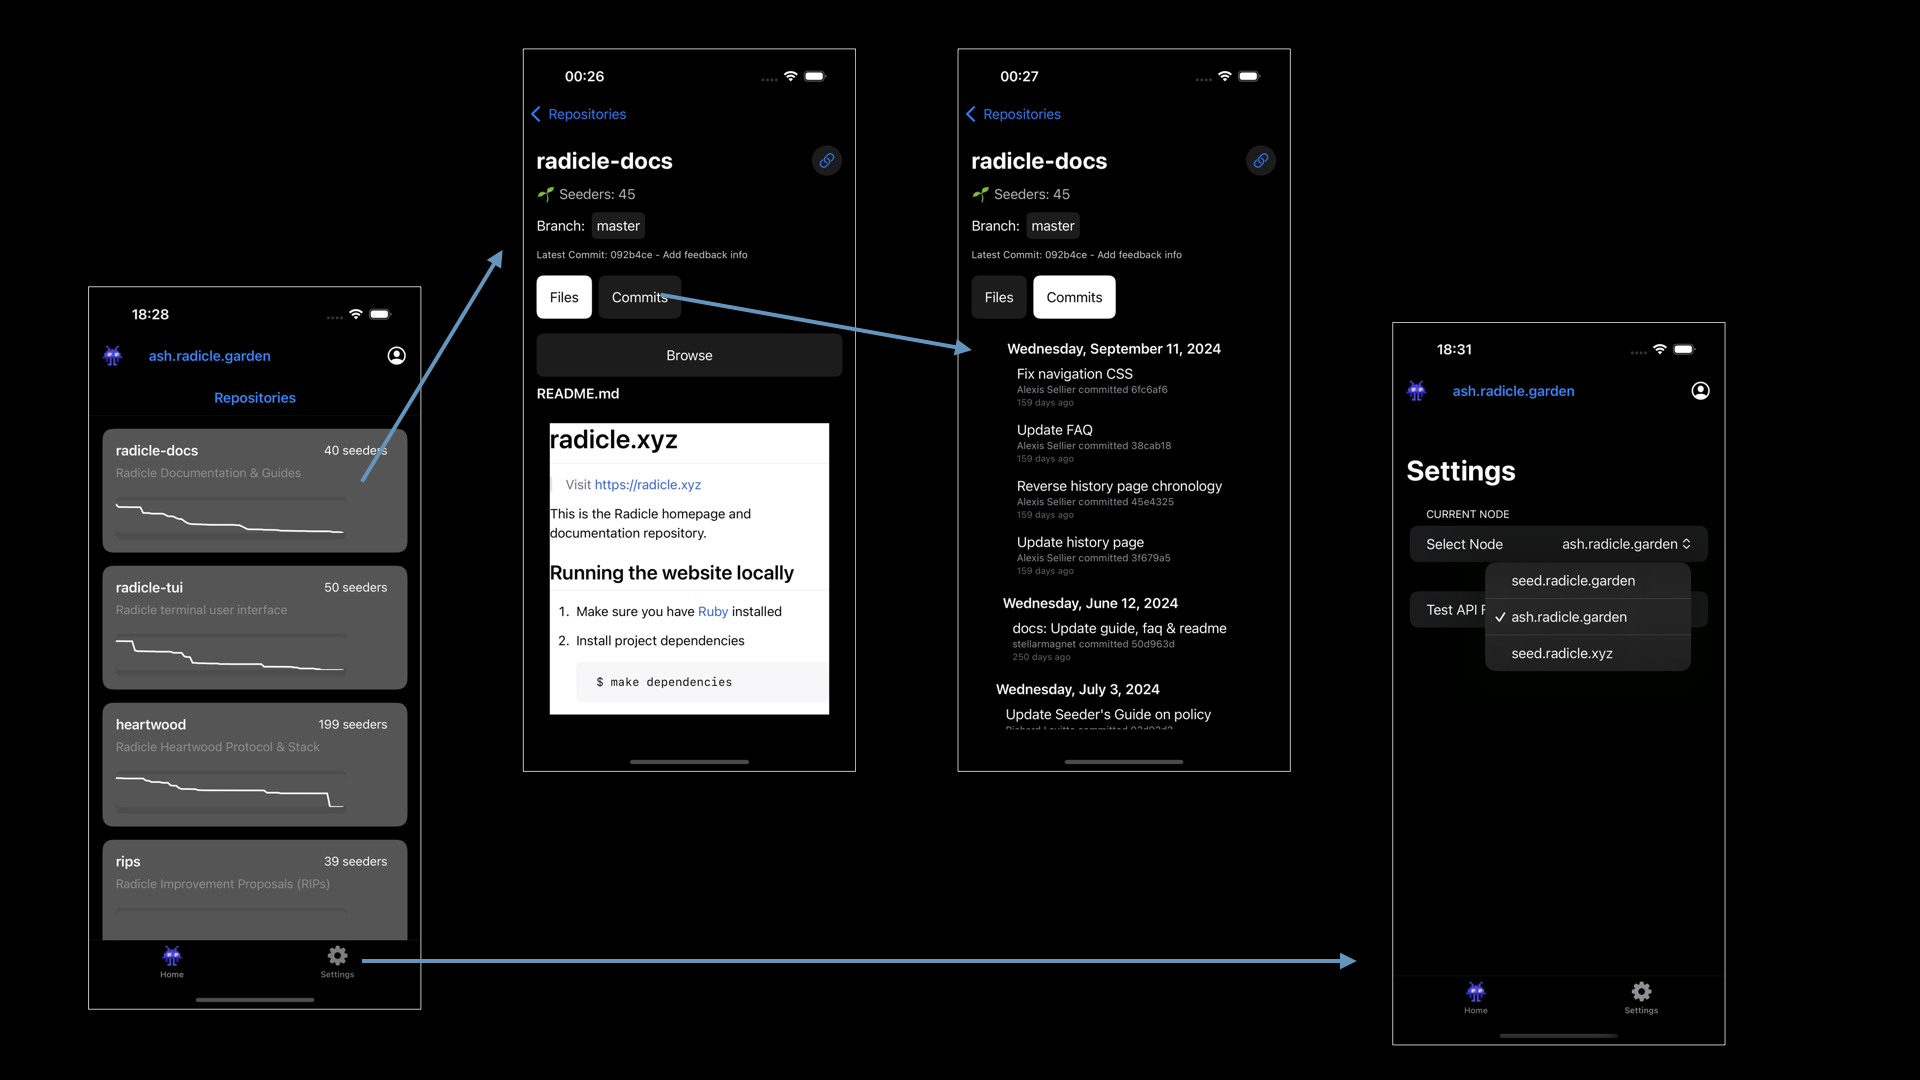
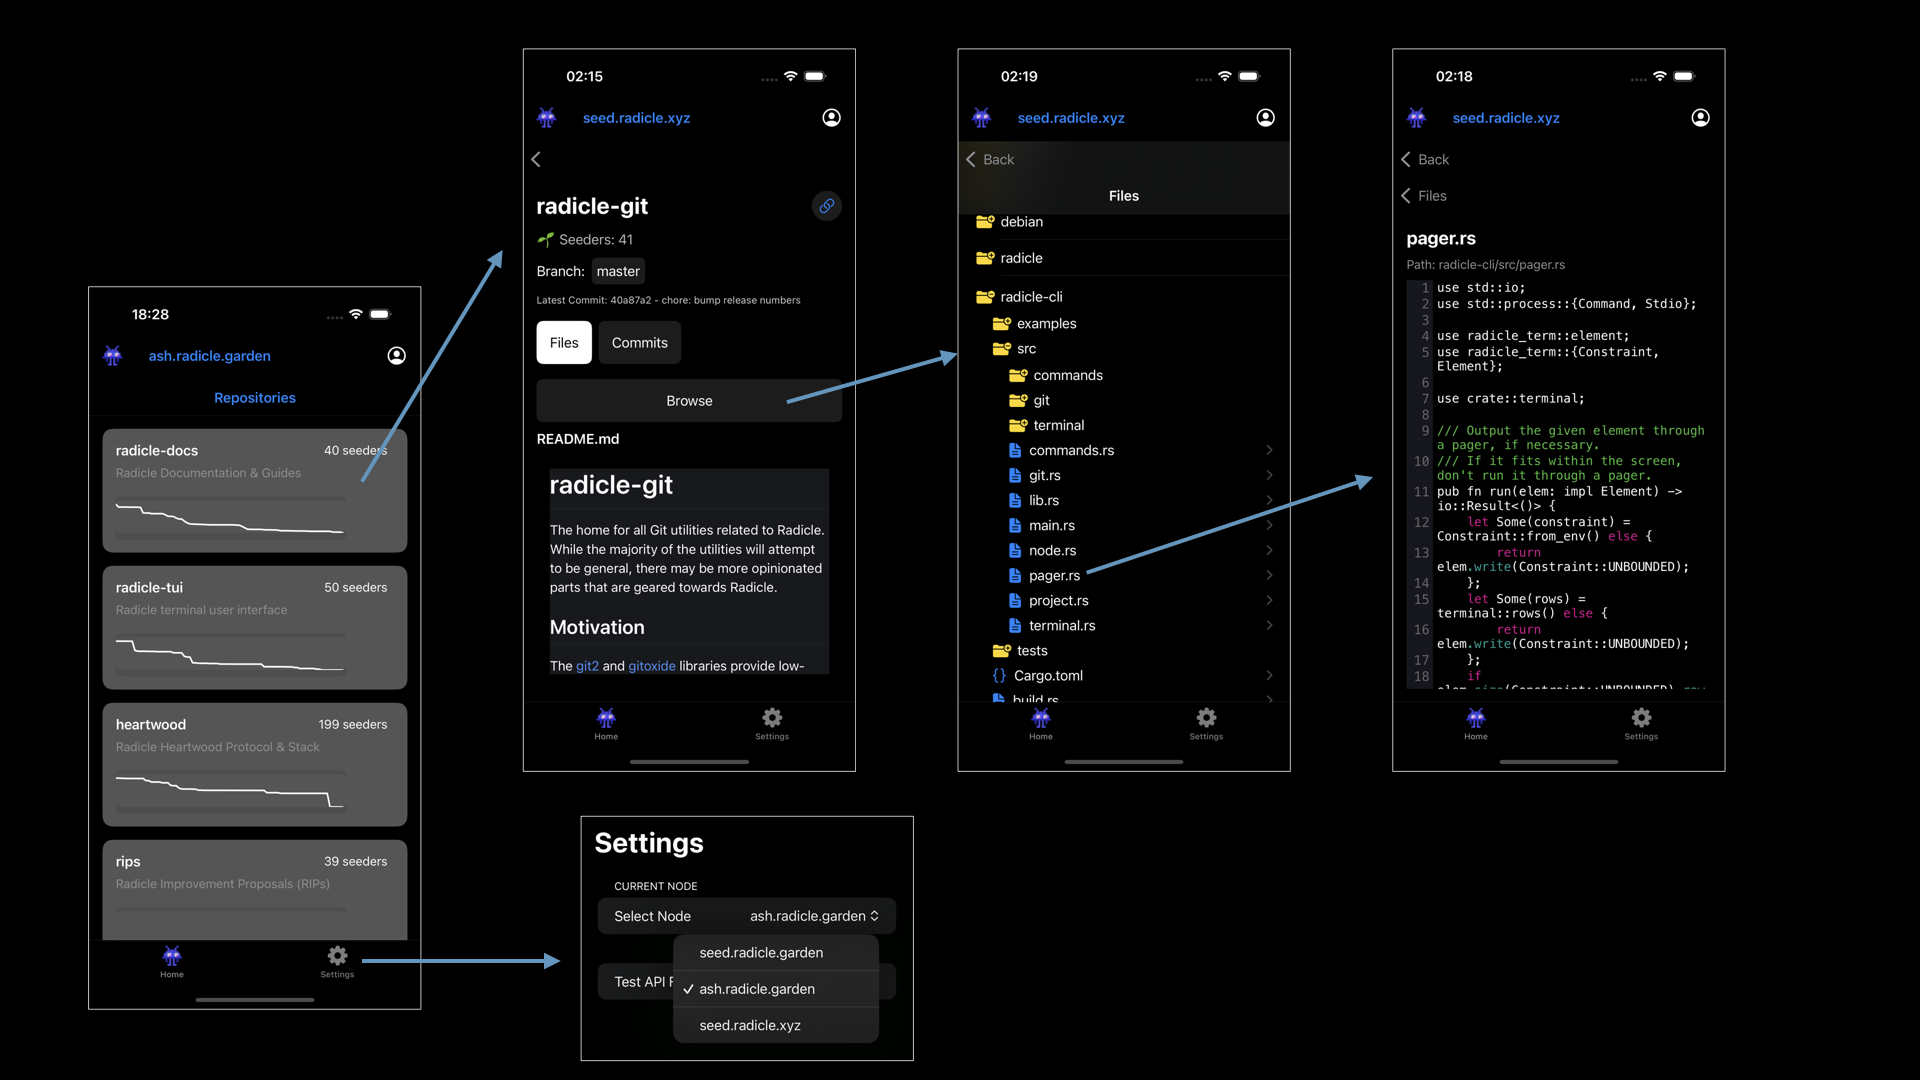
working: syntax highlighting

diff --git a/RadicleApp/Views/Files/FileCodeView.swift b/RadicleApp/Views/Files/FileCodeView.swift
@@ -1,0 +1,75 @@
+//
+//  FileCodeView.swift
+//  RadicleApp
+//
+//  Created by bordumb on 25/02/2025.
+//
+
+import SwiftUI
+import Sourceful
+
+struct FileCodeView: UIViewRepresentable {
+    let code: String
+    let language: Language
+
+    func makeUIView(context: Context) -> SyntaxTextView {
+        let textView = SyntaxTextView()
+        textView.theme = DefaultSourceCodeTheme()
+        textView.contentTextView.textColor = .white
+        textView.contentTextView.backgroundColor = .black
+        textView.contentTextView.isEditable = false
+        textView.delegate = context.coordinator
+        textView.text = code
+        return textView
+    }
+
+    func updateUIView(_ uiView: SyntaxTextView, context: Context) {
+        uiView.text = code
+    }
+
+    func makeCoordinator() -> Coordinator {
+        Coordinator(self, language: language)
+    }
+    
+    class BasicLexer: Lexer {
+        func getSavannaTokens(input: String) -> [Token] {
+            return []
+        }
+    }
+
+    class Coordinator: NSObject, SyntaxTextViewDelegate {
+        var parent: FileCodeView
+        var lexer: Lexer
+
+        init(_ parent: FileCodeView, language: Language) {
+            self.parent = parent
+            switch language {
+            case .swift:
+                self.lexer = SwiftLexer() // ✅ Native Swift support
+            default:
+                self.lexer = BasicLexer() // ✅ Placeholder for Python & JavaScript
+            }
+        }
+
+        // ✅ Required by SyntaxTextViewDelegate
+        func didChangeText(_ syntaxTextView: SyntaxTextView) {
+            // No-op for read-only display
+        }
+
+        func didChangeSelectedRange(_ syntaxTextView: SyntaxTextView, selectedRange: NSRange) {
+            // No-op for read-only display
+        }
+
+        func lexerForSource(_ source: String) -> Lexer {
+            return lexer
+        }
+    }
+}
+
+// Enum for supported languages
+enum Language {
+    case swift
+    case python
+    case javascript
+}
+

diff --git a/RadicleApp/Views/Files/FileView.swift b/RadicleApp/Views/Files/FileView.swift
@@ -9,6 +9,13 @@ struct FileView: View {
     @State private var isLoading = true
     @State private var errorMessage: String?
     
+    var language: Language {
+        if path.hasSuffix(".swift") { return .swift }
+        if path.hasSuffix(".py")    { return .python }
+        if path.hasSuffix(".js")    { return .javascript }
+        return .swift // Default fallback (or you can define `.unknown` if needed)
+    }
+    
     var body: some View {
         VStack(alignment: .leading, spacing: 10) {
             if isLoading {
@@ -23,14 +30,14 @@ struct FileView: View {
                     .font(.subheadline)
                     .foregroundColor(.gray)
                 
-                ScrollView {
-                    Text(file.content ?? "No content available")
-                        .font(.system(.body, design: .monospaced))
+                // Show code with highlight + line numbers
+                if let content = file.content {
+                    FileCodeView(code: content, language: language)
+                        .frame(maxWidth: .infinity, maxHeight: .infinity)
+                } else {
+                    Text("No content available or it's a binary file.")
                         .foregroundColor(.white)
-                        .padding()
                 }
-                .background(Color.black.opacity(0.8))
-                .cornerRadius(10)
             } else if let errorMessage = errorMessage {
                 Text("Error: \(errorMessage)")
                     .foregroundColor(.red)
